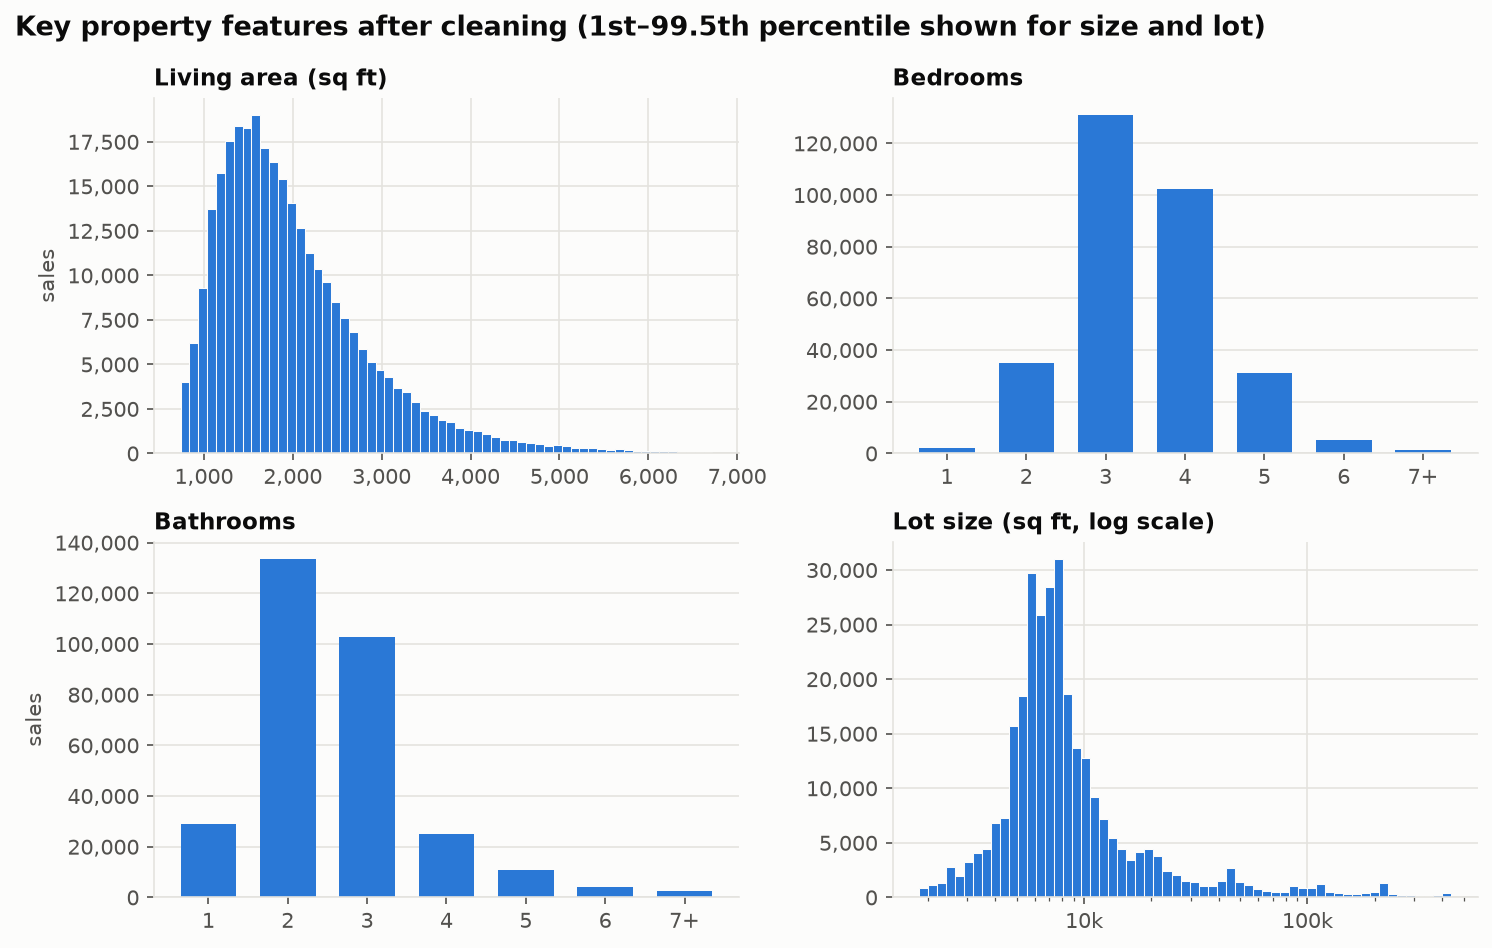
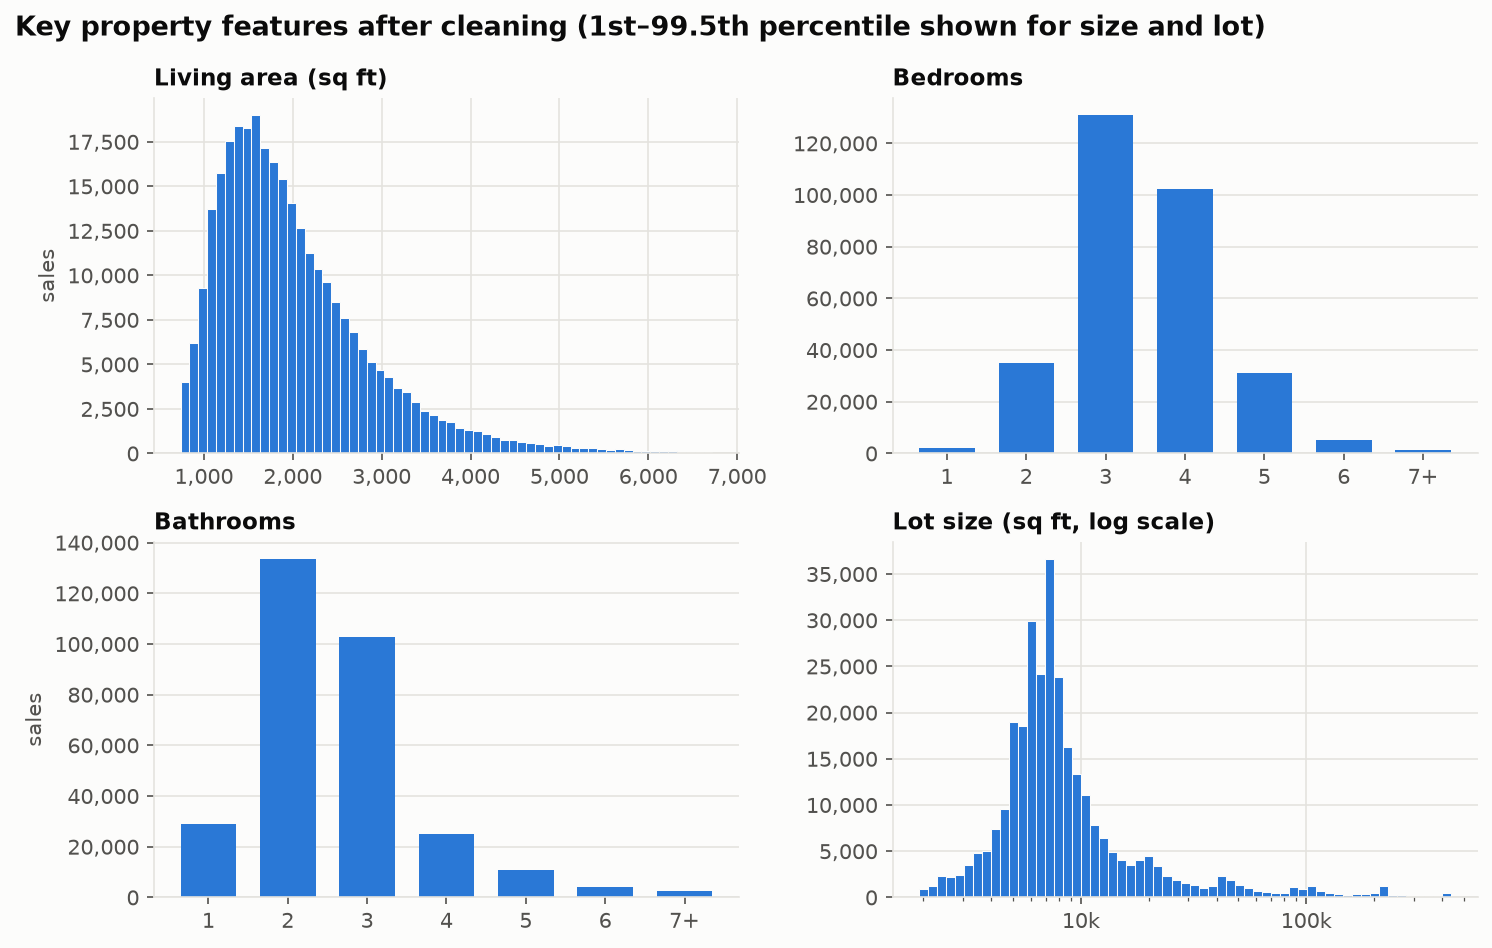
Treat lot sizes under 10 sq ft as acres entered in the wrong field
337 clean sales had LotSizeSquareFeet below 10 (median 0.23), almost
always smaller than the house itself; one listing's dimensions text
reads "0.79 Acre". These are converted from acres (x 43,560). The 46
lots from 10 to 499 sq ft can't be interpreted and become missing,
so the pipeline imputes them and adds a missing flag. Both thresholds
are in RULES and logged in docs/cleaning_log.csv.

Baseline rerun: test MdAPE 11.33% -> 11.23% (R² 0.822 unchanged);
San Diego, where most of these lots are, improves 11.6% -> 11.4%.

diff --git a/src/cleaning.py b/src/cleaning.py
@@ -36,6 +36,10 @@ RULES = {
     "price_per_sqft": (50, 5_000),
     "year_built_min": 1850,
     "max_lot_acres": 1_000,
+    # Lot "square feet" below this are acres typed into the wrong field (median 0.23 -> ~10,000 sq ft)
+    "lot_acres_entered_below": 10,
+    # Lots from that value up to this many sq ft can't be interpreted either way -> missing
+    "min_lot_sqft": 500,
     "max_bed_bath": 20,
     "max_garage_spaces": 20,
     "max_parking_total": 50,
@@ -176,6 +180,17 @@ def clean(raw, rules=RULES):
     log.null(df, "LotSizeSquareFeet",
              (df["LotSizeSquareFeet"] <= 0) | (df["LotSizeSquareFeet"] > rules["max_lot_acres"] * 43_560),
              f"LotSizeSquareFeet <= 0 or > {rules['max_lot_acres']:,} acres")
+    # Assumption (checked in EDA): a positive lot "square feet" value under 10 is acres entered in the
+    # wrong field. 99.7% of these lots were smaller than the house itself; one listing's dimensions
+    # text says "0.79 Acre". Values from 10 to 499 sq ft are ambiguous and become missing.
+    lot = df["LotSizeSquareFeet"]
+    acres_typed = (lot > 0) & (lot < rules["lot_acres_entered_below"])
+    df.loc[acres_typed, "LotSizeSquareFeet"] = lot[acres_typed] * 43_560
+    log.rows.append({"step": f"LotSizeSquareFeet < {rules['lot_acres_entered_below']} treated as acres (x 43,560)",
+                     "rows_removed": 0, "values_nulled": 0, "rows_after": len(df),
+                     "values_filled": int(acres_typed.sum())})
+    log.null(df, "LotSizeSquareFeet", df["LotSizeSquareFeet"] < rules["min_lot_sqft"],
+             f"LotSizeSquareFeet {rules['lot_acres_entered_below']}-{rules['min_lot_sqft'] - 1} (ambiguous units)")
     df = df.drop(columns="LotSizeAcres")
 
     # Coordinates outside California (includes 0,0 and sign errors)

diff --git a/README.md b/README.md
@@ -17,6 +17,7 @@ Predict `ClosePrice` for California single-family homes from listing features (s
 - **Impossible timelines:** 238 sales closed before their listing or purchase-contract date and are removed (`docs/cleaning_log.csv` logs count and % for every step).
 - **Duplicates:** 580 listings appear 2–4 times across monthly files, usually the same sale re-recorded with a corrected close date. The most recently updated record is kept.
 - **Price typos:** 22 of the 31 sales above $50M are typos (e.g. $970M closing on a $975k list price). A close/list ratio band of [0.5, 2] removes them.
+- **Lot units:** 337 lot sizes under 10 "sq ft" (mostly San Diego and Riverside) are acres typed into the square-feet field and are converted; 46 ambiguous lots under 500 sq ft are set to missing.
 - **Coordinates:** `latfilled` / `lonfilled` in the `_filled` files are True/False flags meaning the coordinate was imputed. They are kept as `coords_imputed`.
 - **Features:** 27 input columns → 89 model features (size, rooms, age at sale, HOA/month, location, seasonality as month sine/cosine). See `docs/leakage_audit.csv`.
 - **Leakage:** per the IDX Best Practices doc, `ListPrice`, `OriginalListPrice`, `DaysOnMarket` and post-listing / post-close dates are excluded as features (`cleaning.LEAKAGE_COLS`). They stay in the clean table only for data-quality checks.
@@ -27,12 +28,12 @@ Trained on `log(ClosePrice)`; metrics in dollars. Window chosen on the 2026-03 v
 
 | Test month | R² | MdAPE | MAPE | MAE | Within 10% |
 |---|---|---|---|---|---|
-| **2026-04 (test)** | **0.822** | **11.3%** | 15.5% | $209k | 45% |
-| 2026-03 (backtest) | 0.817 | 11.2% | 15.1% | $201k | 46% |
-| 2026-02 (backtest) | 0.803 | 11.4% | 15.5% | $209k | 45% |
-| 2026-01 (backtest) | 0.788 | 11.3% | 15.7% | $201k | 45% |
+| **2026-04 (test)** | **0.822** | **11.2%** | 15.4% | $209k | 45% |
+| 2026-03 (backtest) | 0.817 | 11.1% | 15.1% | $201k | 46% |
+| 2026-02 (backtest) | 0.803 | 11.4% | 15.4% | $208k | 45% |
+| 2026-01 (backtest) | 0.788 | 11.3% | 15.7% | $200k | 45% |
 
-The model over-values entry-level homes (median +5% in the lowest price quintile) and under-values luxury homes (−10.6%, MdAPE 15.9% in the top quintile). Full breakdown in `notebooks/03_baseline_model.ipynb` and `docs/metrics_baseline_linear_regression.csv`.
+The model over-values entry-level homes (median +4.9% in the lowest price quintile) and under-values luxury homes (−10.6%, MdAPE 15.9% in the top quintile). Full breakdown in `notebooks/03_baseline_model.ipynb` and `docs/metrics_baseline_linear_regression.csv`.
 
 ![Rows removed by each cleaning step](docs/figures/cleaning_steps.png)
 
